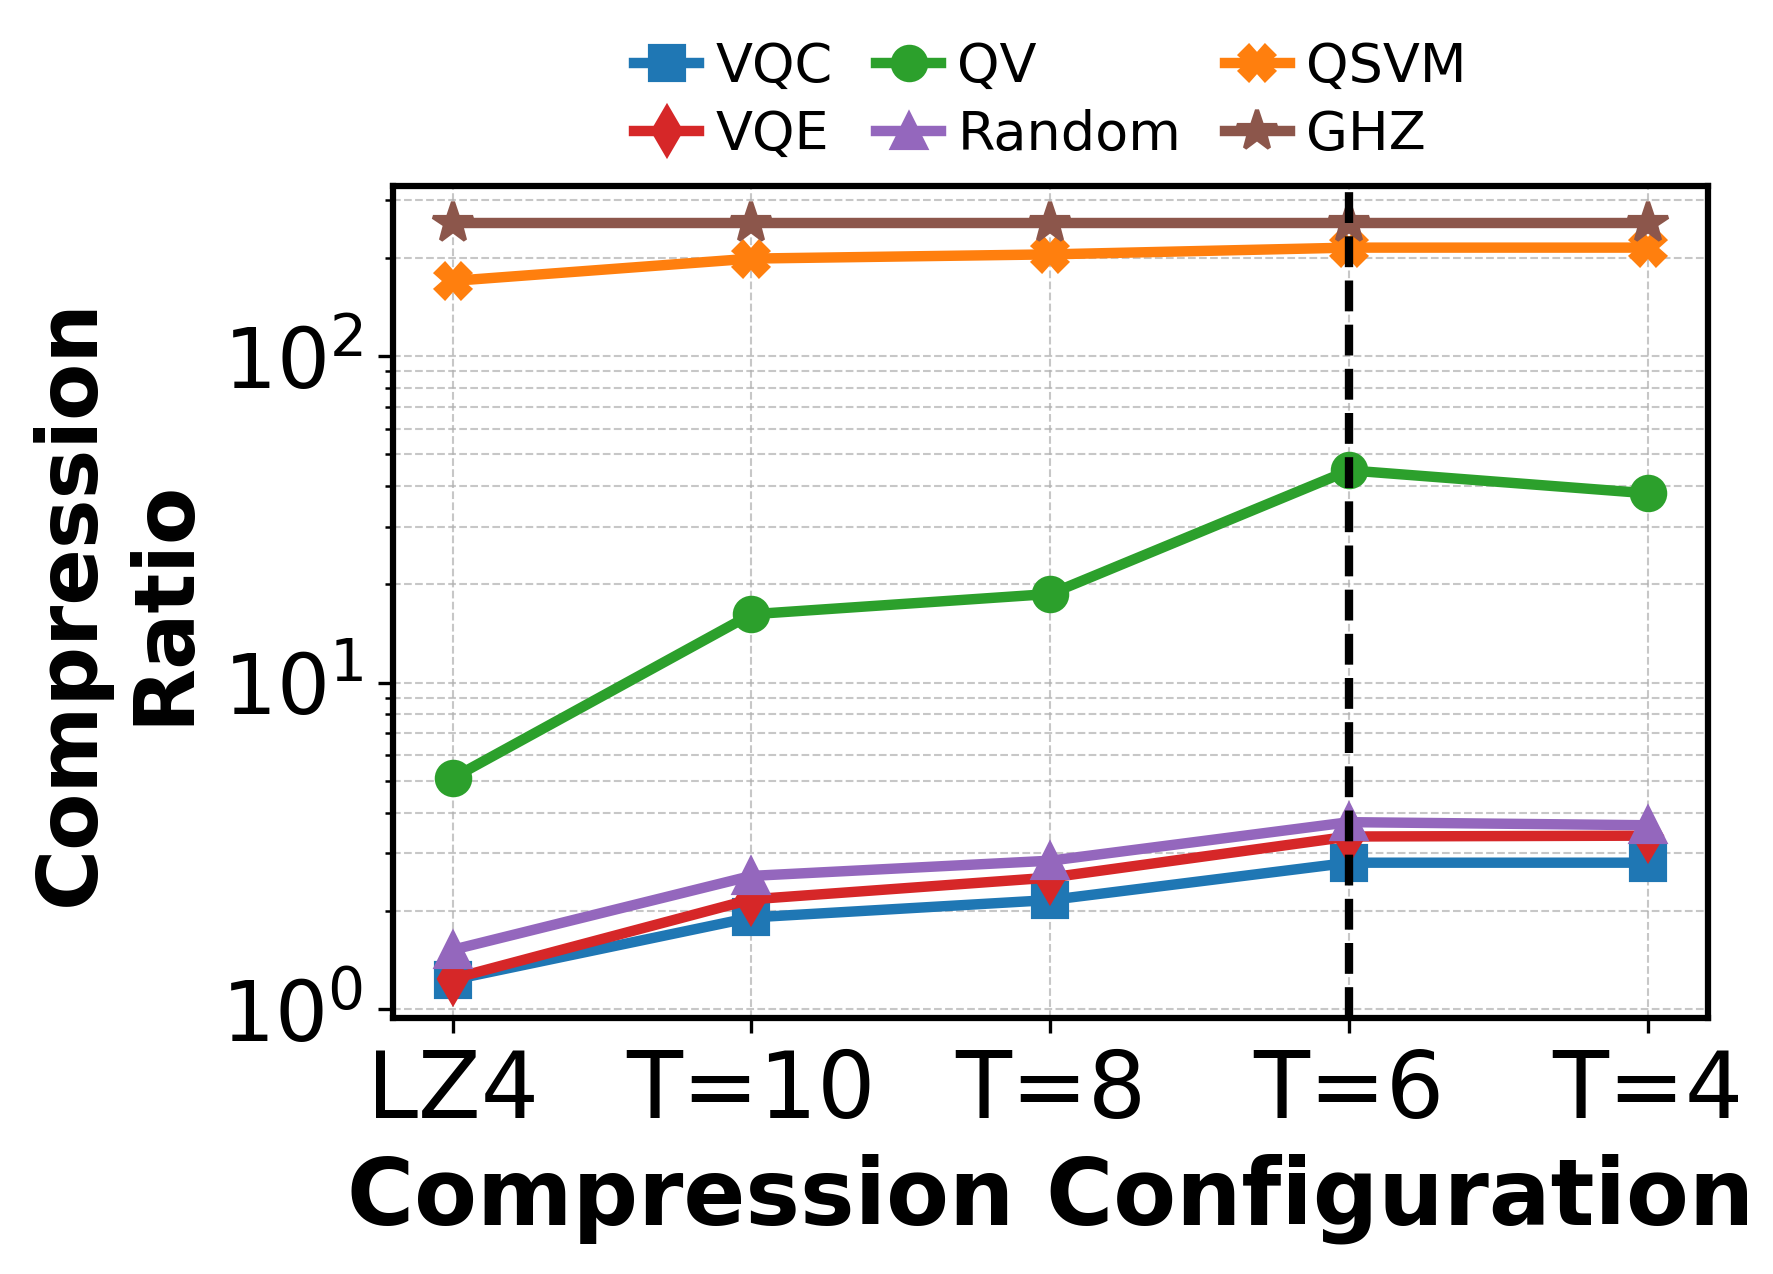
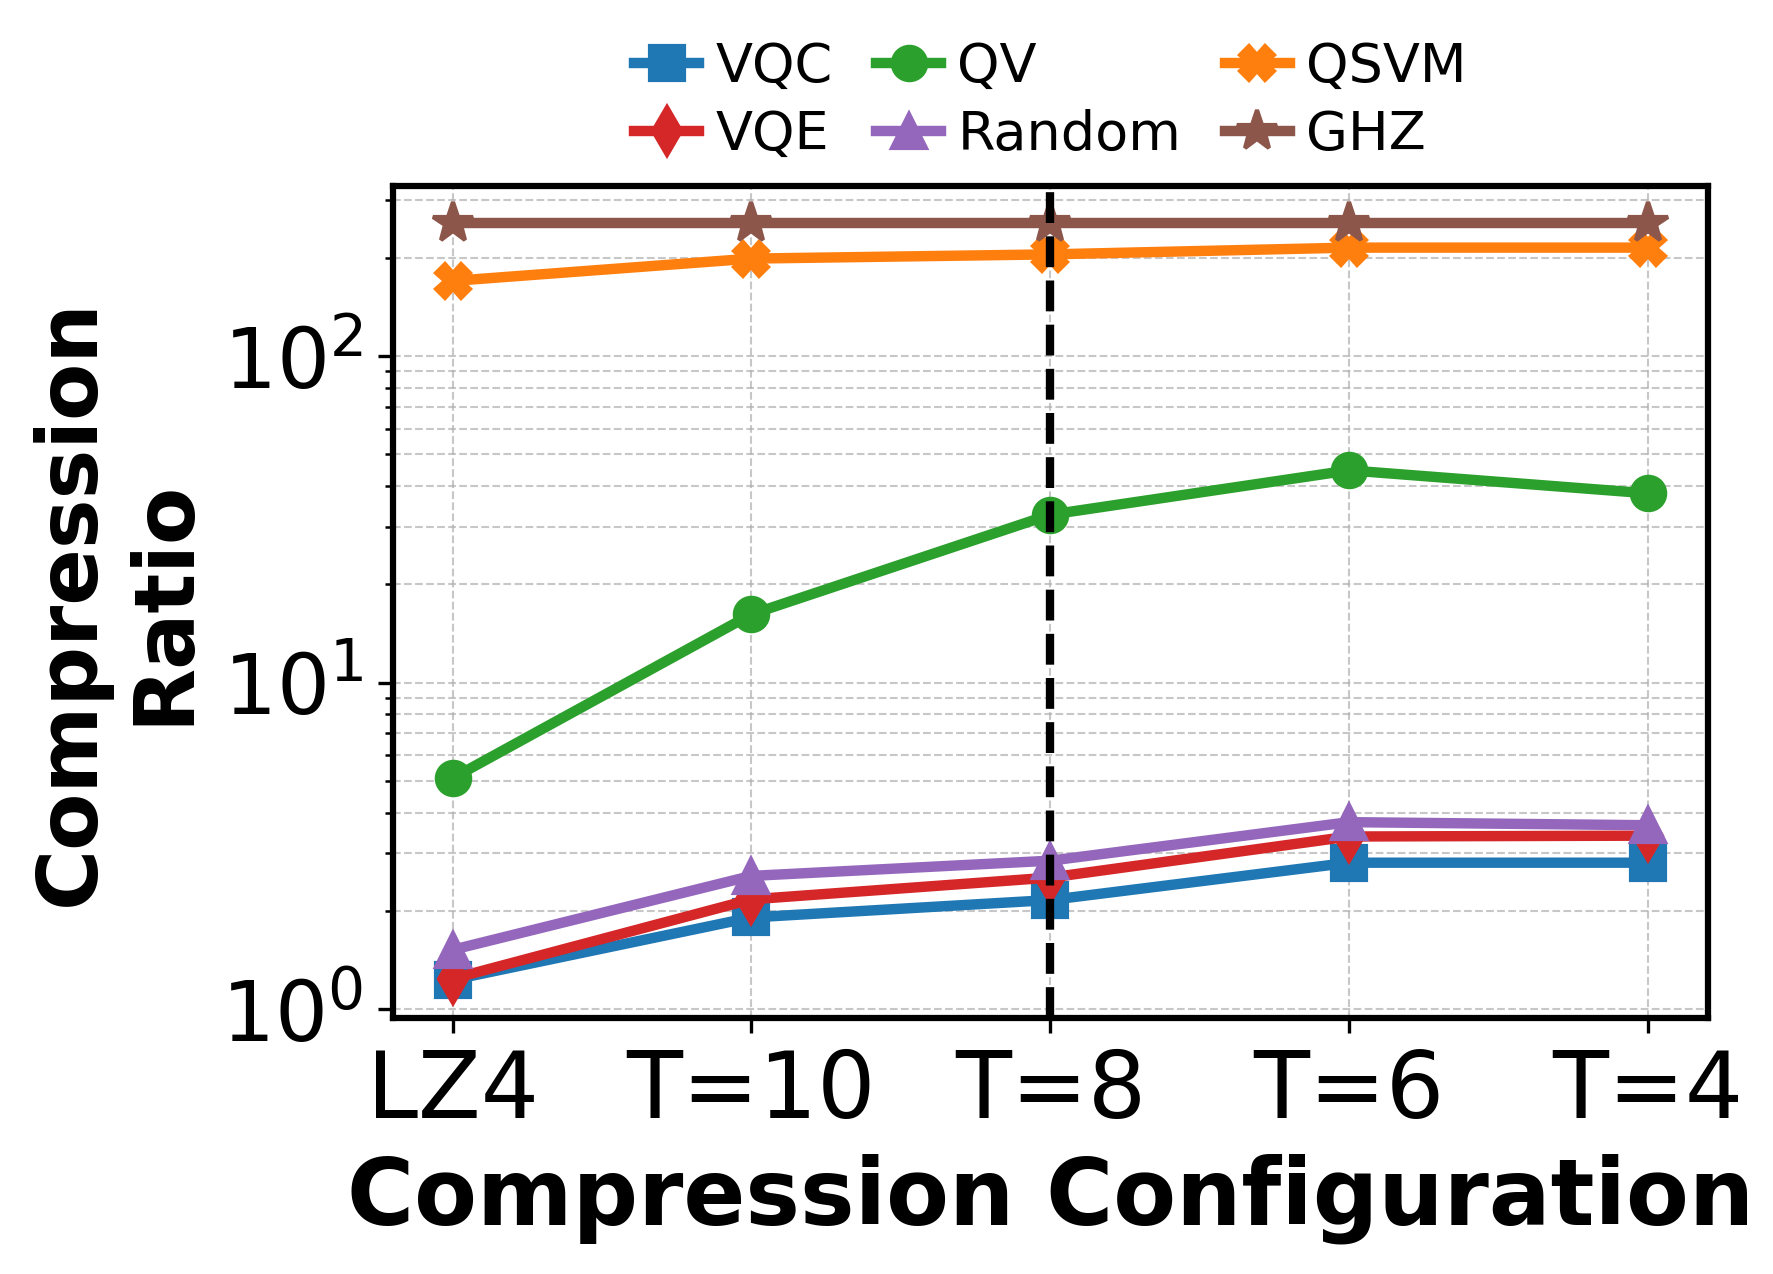
asdasd

Changed region(s): [[0.4343, 0.1531, 0.7755, 0.7959]]

diff --git a/4_Evaluation.tex b/4_Evaluation.tex
@@ -132,7 +132,7 @@ Since the 500GB physical NVMe SSD on the Jetson platform cannot accommodate raw 
 \noindent\textbf{Compression Ratio Sweep.} Figure~\ref{fig:eff_ratio} compares per-circuit compression ratios across the LZ4 baseline and four mantissa truncation depths. As truncation depth decreases from $T=10$ to $T=6$, the QV ratio expands from 16.2$\times$ to 44.7$\times$, while the VQC ratio scales from 1.91$\times$ to 2.81$\times$. Each truncation depth zeros the lower mantissa bits before LZ4, corresponding to per-file ratios from 2.81$\times$ (VQC) to 255$\times$ (GHZ) at $T=6$ across the six circuits. The byte shuffle groups same-position bytes across amplitudes to expose zero-runs in the truncated lower bytes, yielding ratios above the LZ4-only baseline by up to 9$\times$ for QV. The $T=6$ point reflects compression saturation, whereas $T=4$ reduces the ratio for QV (44.7$\times$$\rightarrow$38.0$\times$) and Random (3.74$\times$$\rightarrow$3.66$\times$). Thus, \EdgeQuantum fits a 39-qubit GHZ simulation within 32GB of NVMe storage at $T=6$, whereas dense circuits achieve per-file compression of 2.81$\times$-3.74$\times$ that supports up to 36 qubits within the 500GB capacity.
 
 
-\noindent\textbf{Performance Benefit.} Figure~\ref{fig:eff_speedup} compares per-circuit simulation time of \EdgeQuantum with and without mantissa-truncated LZ4 compression at 34Q, isolating the compression speedup from capacity necessity since the raw state vector still fits the 500GB SSD without compression. Compression yields a 2.02$\times$-4.59$\times$ speedup across the six circuit types, with the largest gain on GHZ (290.2s $\rightarrow$ 63.3s, 4.59$\times$) and the smallest on VQC (1483.8s $\rightarrow$ 733.5s, 2.02$\times$). This range arises because the per-circuit compression ratio determines I/O reduction between UVM and NVMe, and high-ratio circuits (GHZ 255$\times$, QSVM 215$\times$, QV 44.7$\times$) transition into a regime dominated by compression and decompression overhead while dense circuits (VQC 2.81$\times$, Random 3.74$\times$) remain partially I/O-bound. At 34Q, all circuits start heavily I/O-bound regardless of compute density, so compression delivers speedup proportional to the I/O reduction it provides. The asynchronous pipeline alone capped GHZ at 1.21$\times$ (Section~\ref{4.2}) because its narrow compute window limited write-latency overlap. Compression bypasses this compute-window dependence by reducing I/O volume directly, so GHZ achieves a 4.59$\times$ speedup that matches the high-ratio circuits (QSVM 4.57$\times$, QV 4.30$\times$) and exceeds the dense circuits (2.02$\times$-2.35$\times$).
+\noindent\textbf{Performance Benefit.} Figure~\ref{fig:eff_speedup} compares per-circuit simulation time of \EdgeQuantum with and without mantissa-truncated LZ4 compression at 34Q, isolating the compression speedup from capacity necessity since the raw state vector still fits the 500GB SSD without compression. Compression yields a 2.02$\times$-4.59$\times$ speedup across the six circuit types, with the largest gain on GHZ (290.2s $\rightarrow$ 63.3s, 4.59$\times$) and the smallest on VQC (1483.8s $\rightarrow$ 733.5s, 2.02$\times$). This range arises because the per-circuit compression ratio determines I/O reduction between UVM and NVMe, and high-ratio circuits (GHZ, QSVM, QV) transition into a regime dominated by compression and decompression overhead while dense circuits (VQC, Random, VQE) remain partially I/O-bound. At 34Q, all circuits start heavily I/O-bound regardless of compute density, so compression delivers speedup proportional to the I/O reduction it provides. The asynchronous pipeline alone capped GHZ at 1.21$\times$ (Section~\ref{4.2}) because its narrow compute window limited write-latency overlap. Compression bypasses this compute-window dependence by reducing I/O volume directly, so GHZ achieves a 4.59$\times$ speedup that matches the high-ratio circuits (QSVM 4.57$\times$, QV 4.30$\times$) and exceeds the dense circuits (2.02$\times$-2.35$\times$).
 
 
 
@@ -204,7 +204,7 @@ This regime is accessible to \EdgeQuantum because of its UMA-optimized compressi
 
 Table~\ref{tab:io_breakdown_compressed} decomposes the execution time of \EdgeQuantum with mantissa-truncated LZ4 ping-pong compression into physical I/O, CPU compression, and GPU compute phases across 34 to 36 qubits.
 
-\noindent\textbf{Bottleneck Shift for High-Ratio Circuits. }Compression and decompression dominate the total execution time for high-ratio circuits, shifting the primary bottleneck from physical I/O to the CPU. For 34Q GHZ ($R=255\times$), physical I/O operations (\texttt{pread} and \texttt{pwrite}) account for 1.3s, representing 2.1\% of the 63.3s total execution time. Conversely, CPU-driven LZ4 decompression and compression consume 60.0s, constituting 94.8\% of the total duration. This profile demonstrates that the 255$\times$ data volume reduction eliminates the NVMe bandwidth constraint. The system transitions into a CPU-bound regime where execution time depends primarily on compression throughput, validating the design trade-off introduced in Section~\ref{design_compression}.
+\noindent\textbf{Bottleneck Shift for High-Ratio Circuits. }Compression and decompression dominate the total execution time for high-ratio circuits, shifting the primary bottleneck from physical I/O to the CPU. For 34Q GHZ, physical I/O operations (\texttt{pread} and \texttt{pwrite}) account for 1.3s, representing 2.1\% of the 63.3s total execution time. Conversely, CPU-driven LZ4 decompression and compression consume 60.0s, constituting 94.8\% of the total duration. This profile demonstrates that the 255$\times$ data volume reduction eliminates the NVMe bandwidth constraint. The system transitions into a CPU-bound regime where execution time depends primarily on compression throughput, validating the design trade-off introduced in Section~\ref{design_compression}.
 
 \noindent\textbf{Linear Scaling and Task Overlap. }As the logical state vector scales from 34Q to 36Q, the execution phases exhibit stable linear growth without triggering OS-level thrashing or I/O contention. For GHZ, CPU decompression time scales from 44.3s (34Q) to 172.8s (36Q), approximately doubling per qubit increment. Across all scales, GPU compute time remains a small fraction of total runtime, requiring 2.0s to 50.9s per simulation. Because the combined CPU LZ4 phase exceeds GPU compute by over an order of magnitude, the GPU compute window is fully absorbed by the background offloading tasks. This validates the UMA-optimized compression path, which overlaps CPU LZ4 with GPU gate execution on shared DRAM. By utilizing otherwise-idle CPU cores for LZ4 processing, \EdgeQuantum extends simulation capacity while maintaining predictable scaling across both CPU-bound (high-ratio) and I/O-bound (dense) regimes.
 